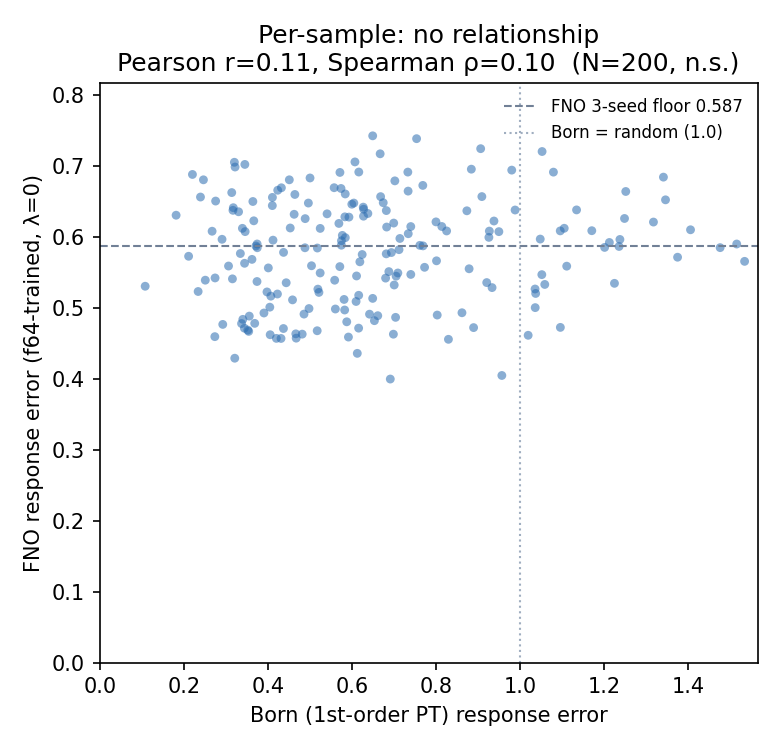
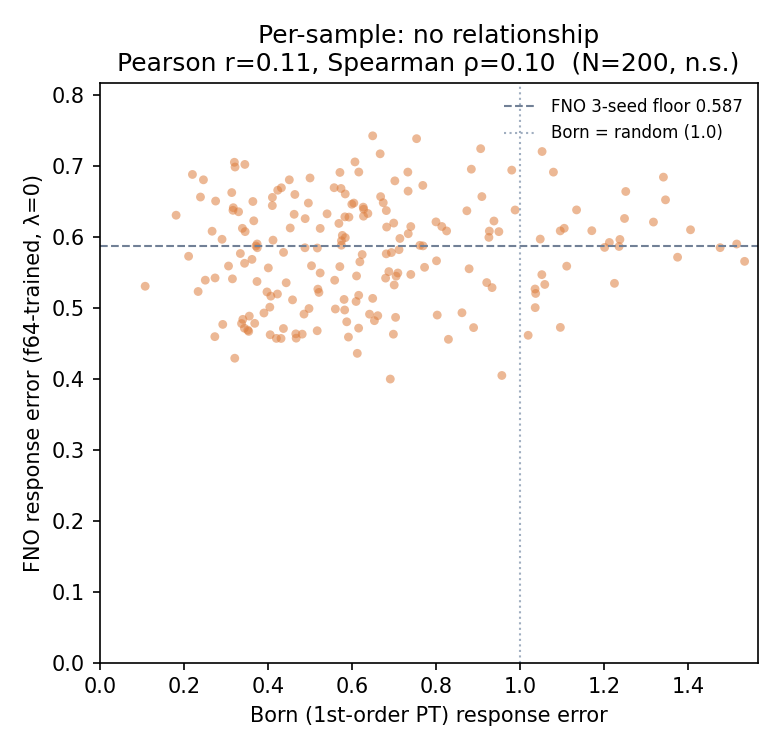
Phase 7: Born approx: provenance verified. Headline result: FNO marginally beats PT on mean (0.579 vs 0.651) BUT per-sample uncorrelated   (Pearson 0.107, Spearman 0.097, n.s.) → FNO ≠ PT, orthogonal error geometry → failure axis is   truncation, not perturbativeness → Born is the control ruling out

diff --git a/scripts/plot_born_scatter.py b/scripts/plot_born_scatter.py
@@ -9,7 +9,7 @@ r_p, _ = pearsonr(born, fno)
 r_s, _ = spearmanr(born, fno)
 
 fig, ax = plt.subplots(figsize=(5.2, 5))
-ax.scatter(born, fno, s=18, alpha=0.55, edgecolor="none", color="#2b6cb0")
+ax.scatter(born, fno, s=18, alpha=0.55, edgecolor="none", color="#dd7e3f")
 
 # reference lines: the two floors + the random-response marker
 ax.axhline(0.587, ls="--", lw=1, color="#718096", label="FNO 3-seed floor 0.587")

diff --git a/results/PHASE7_NOTES.md b/results/PHASE7_NOTES.md
@@ -88,18 +88,13 @@ Two clean findings on the CORRECT net (f64-trained dino λ0 M16, seed0, N=200):
 - figure: Born_err vs FNO_err scatter (expect blob, add r on plot)
 - canonical arrays: born_errs_200.npy, fno_errs_200_f64trained.npy, Jtrue_kq_200.npy
 
+### [AUDIT CLOSED] Born baseline fully verified (survived 5 provenance rounds)
+- 0.5787 (our f64 run) == 0.5787 (Phase6 logged λ0 seed0) BIT-EXACT → FNO axis correct, floor provenance nailed
+- 3-seed 0.587 spread 0.017; seed0 +0.008 consistent
+- machinery unchanged from Phase5: reproduced s0=0.3862 AND M16 grand-mean 0.5113 bit-exact (f32 net)
+- Born gated 7.7e-14; alignment by construction; checkpoint semantics = forward-only ✓
+- RESULT (manuscript): FNO marginally beats PT on mean (0.579 vs 0.651) BUT per-sample uncorrelated
+  (Pearson 0.107, Spearman 0.097, n.s.) → FNO ≠ PT, orthogonal error geometry → failure axis is
+  truncation, not perturbativeness → Born is the control ruling out the physics explanation → 7A headliner
+- canonical: born_errs_200.npy, fno_errs_200_f64trained.npy, Jtrue_kq_200.npy, born_vs_fno_scatter.png
 
-### [CACHE DEBT] recompute fno_errs[200] + save ALL 200 J_true_kq (7A/7D reuse) — pay JVP once
-
-### Derivation
-- (fill block-by-block)
-### Gate: closed-form J0 vs jacfwd(evolve) at V=0  → target rel-err ~1e-12
-- result: ______
-### Science: response_error(J0, J_true) over 200 samples
-- Born < 0.587 forward-only? → headline branch: ______
-- Born >> 0.587? → response is non-perturbative → learning-it-is-nontrivial branch
-
-## Artifact paths (Phase 7)
-- ckpt: checkpoints/fno_N2000_seed0_final.eqx
-- data: data/test.npz  (keys: psi0, V, uT, p_k0)
-- born out: results/born_J0_<...>.npy   (TBD naming)
